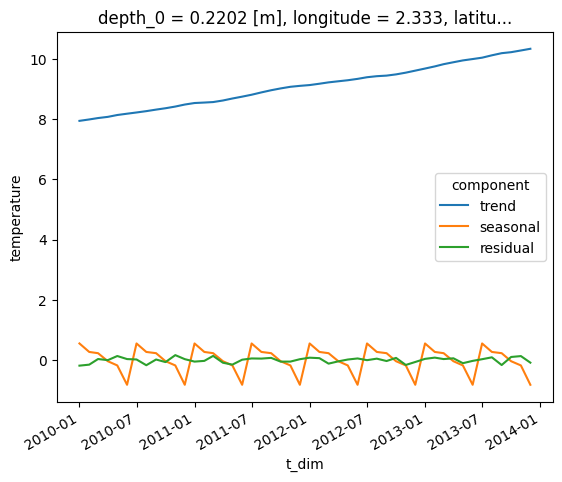
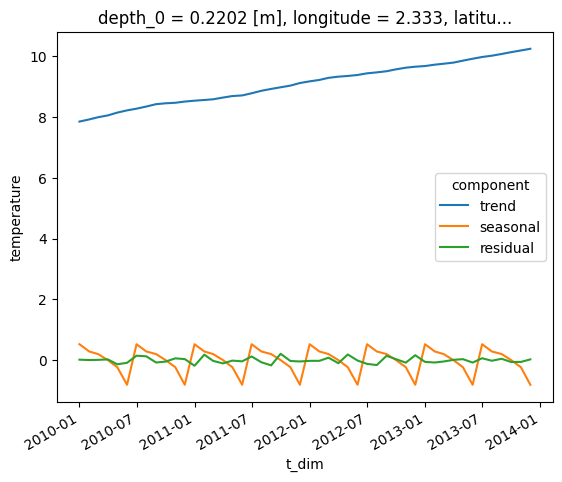
Updated General notebook pages from coast repo.

diff --git a/content/en/docs/Examples/Notebooks/General/seasonal_decomp_example.md b/content/en/docs/Examples/Notebooks/General/seasonal_decomp_example.md
@@ -86,7 +86,7 @@ temperature[0,0,:,:].plot()
 
 
 
-    <matplotlib.collections.QuadMesh at 0x7f54288200a0>
+    <matplotlib.collections.QuadMesh at 0x7f87ec9b7af0>
 
 
 
@@ -107,7 +107,7 @@ temperature[:,0,200,200].plot()
 
 
 
-    [<matplotlib.lines.Line2D at 0x7f5428659c40>]
+    [<matplotlib.lines.Line2D at 0x7f87ec7fa6d0>]
 
 
 
@@ -513,7 +513,7 @@ Dimensions without coordinates: z_dim, y_dim, x_dim
 Data variables:
     trend      (t_dim, z_dim, y_dim, x_dim) float64 nan nan nan ... nan nan nan
     seasonal   (t_dim, z_dim, y_dim, x_dim) float64 nan nan nan ... nan nan nan
-    residual   (t_dim, z_dim, y_dim, x_dim) float64 nan nan nan ... nan nan nan</pre><div class='xr-wrap' style='display:none'><div class='xr-header'><div class='xr-obj-type'>xarray.Dataset</div></div><ul class='xr-sections'><li class='xr-section-item'><input id='section-42e1726b-56fc-4b8e-be20-4bd1af0680b8' class='xr-section-summary-in' type='checkbox' disabled ><label for='section-42e1726b-56fc-4b8e-be20-4bd1af0680b8' class='xr-section-summary'  title='Expand/collapse section'>Dimensions:</label><div class='xr-section-inline-details'><ul class='xr-dim-list'><li><span class='xr-has-index'>t_dim</span>: 48</li><li><span>z_dim</span>: 2</li><li><span>y_dim</span>: 375</li><li><span>x_dim</span>: 297</li></ul></div><div class='xr-section-details'></div></li><li class='xr-section-item'><input id='section-195ff127-68da-49b0-ae87-d6668c5d421f' class='xr-section-summary-in' type='checkbox'  checked><label for='section-195ff127-68da-49b0-ae87-d6668c5d421f' class='xr-section-summary' >Coordinates: <span>(4)</span></label><div class='xr-section-inline-details'></div><div class='xr-section-details'><ul class='xr-var-list'><li class='xr-var-item'><div class='xr-var-name'><span class='xr-has-index'>t_dim</span></div><div class='xr-var-dims'>(t_dim)</div><div class='xr-var-dtype'>datetime64[ns]</div><div class='xr-var-preview xr-preview'>2010-01-01 ... 2013-12-01</div><input id='attrs-63c6d6a4-a8df-4694-a882-216d57622b40' class='xr-var-attrs-in' type='checkbox' disabled><label for='attrs-63c6d6a4-a8df-4694-a882-216d57622b40' title='Show/Hide attributes'><svg class='icon xr-icon-file-text2'><use xlink:href='#icon-file-text2'></use></svg></label><input id='data-4ab6fa35-8d45-4284-99fa-51c6e1e53652' class='xr-var-data-in' type='checkbox'><label for='data-4ab6fa35-8d45-4284-99fa-51c6e1e53652' title='Show/Hide data repr'><svg class='icon xr-icon-database'><use xlink:href='#icon-database'></use></svg></label><div class='xr-var-attrs'><dl class='xr-attrs'></dl></div><div class='xr-var-data'><pre>array([&#x27;2010-01-01T00:00:00.000000000&#x27;, &#x27;2010-02-01T00:00:00.000000000&#x27;,
+    residual   (t_dim, z_dim, y_dim, x_dim) float64 nan nan nan ... nan nan nan</pre><div class='xr-wrap' style='display:none'><div class='xr-header'><div class='xr-obj-type'>xarray.Dataset</div></div><ul class='xr-sections'><li class='xr-section-item'><input id='section-d42141ce-48af-4893-b364-5f6567613936' class='xr-section-summary-in' type='checkbox' disabled ><label for='section-d42141ce-48af-4893-b364-5f6567613936' class='xr-section-summary'  title='Expand/collapse section'>Dimensions:</label><div class='xr-section-inline-details'><ul class='xr-dim-list'><li><span class='xr-has-index'>t_dim</span>: 48</li><li><span>z_dim</span>: 2</li><li><span>y_dim</span>: 375</li><li><span>x_dim</span>: 297</li></ul></div><div class='xr-section-details'></div></li><li class='xr-section-item'><input id='section-e6585d1b-7724-4d4b-a495-5657a4b716bb' class='xr-section-summary-in' type='checkbox'  checked><label for='section-e6585d1b-7724-4d4b-a495-5657a4b716bb' class='xr-section-summary' >Coordinates: <span>(4)</span></label><div class='xr-section-inline-details'></div><div class='xr-section-details'><ul class='xr-var-list'><li class='xr-var-item'><div class='xr-var-name'><span class='xr-has-index'>t_dim</span></div><div class='xr-var-dims'>(t_dim)</div><div class='xr-var-dtype'>datetime64[ns]</div><div class='xr-var-preview xr-preview'>2010-01-01 ... 2013-12-01</div><input id='attrs-b4dcd564-58a8-42f1-81d1-2969cd179d9c' class='xr-var-attrs-in' type='checkbox' disabled><label for='attrs-b4dcd564-58a8-42f1-81d1-2969cd179d9c' title='Show/Hide attributes'><svg class='icon xr-icon-file-text2'><use xlink:href='#icon-file-text2'></use></svg></label><input id='data-311a7585-7bc5-4884-a68f-ded313acbca0' class='xr-var-data-in' type='checkbox'><label for='data-311a7585-7bc5-4884-a68f-ded313acbca0' title='Show/Hide data repr'><svg class='icon xr-icon-database'><use xlink:href='#icon-database'></use></svg></label><div class='xr-var-attrs'><dl class='xr-attrs'></dl></div><div class='xr-var-data'><pre>array([&#x27;2010-01-01T00:00:00.000000000&#x27;, &#x27;2010-02-01T00:00:00.000000000&#x27;,
        &#x27;2010-03-01T00:00:00.000000000&#x27;, &#x27;2010-04-01T00:00:00.000000000&#x27;,
        &#x27;2010-05-01T00:00:00.000000000&#x27;, &#x27;2010-06-01T00:00:00.000000000&#x27;,
        &#x27;2010-07-01T00:00:00.000000000&#x27;, &#x27;2010-08-01T00:00:00.000000000&#x27;,
@@ -537,7 +537,7 @@ Data variables:
        &#x27;2013-07-01T00:00:00.000000000&#x27;, &#x27;2013-08-01T00:00:00.000000000&#x27;,
        &#x27;2013-09-01T00:00:00.000000000&#x27;, &#x27;2013-10-01T00:00:00.000000000&#x27;,
        &#x27;2013-11-01T00:00:00.000000000&#x27;, &#x27;2013-12-01T00:00:00.000000000&#x27;],
-      dtype=&#x27;datetime64[ns]&#x27;)</pre></div></li><li class='xr-var-item'><div class='xr-var-name'><span>depth_0</span></div><div class='xr-var-dims'>(z_dim, y_dim, x_dim)</div><div class='xr-var-dtype'>float32</div><div class='xr-var-preview xr-preview'>0.5 0.5 0.5 0.5 ... 1.5 1.5 1.5 1.5</div><input id='attrs-6fabb1e6-5b57-43e1-aba7-dca92c9be95e' class='xr-var-attrs-in' type='checkbox' ><label for='attrs-6fabb1e6-5b57-43e1-aba7-dca92c9be95e' title='Show/Hide attributes'><svg class='icon xr-icon-file-text2'><use xlink:href='#icon-file-text2'></use></svg></label><input id='data-6bfe2712-4ecb-4cb5-b232-1c63897d9967' class='xr-var-data-in' type='checkbox'><label for='data-6bfe2712-4ecb-4cb5-b232-1c63897d9967' title='Show/Hide data repr'><svg class='icon xr-icon-database'><use xlink:href='#icon-database'></use></svg></label><div class='xr-var-attrs'><dl class='xr-attrs'><dt><span>units :</span></dt><dd>m</dd><dt><span>standard_name :</span></dt><dd>Depth at time zero on the t-grid</dd></dl></div><div class='xr-var-data'><pre>array([[[0.5       , 0.5       , 0.5       , ..., 0.5       ,
+      dtype=&#x27;datetime64[ns]&#x27;)</pre></div></li><li class='xr-var-item'><div class='xr-var-name'><span>depth_0</span></div><div class='xr-var-dims'>(z_dim, y_dim, x_dim)</div><div class='xr-var-dtype'>float32</div><div class='xr-var-preview xr-preview'>0.5 0.5 0.5 0.5 ... 1.5 1.5 1.5 1.5</div><input id='attrs-b49a0ec0-ab7a-4933-a63e-c009f26ebf74' class='xr-var-attrs-in' type='checkbox' ><label for='attrs-b49a0ec0-ab7a-4933-a63e-c009f26ebf74' title='Show/Hide attributes'><svg class='icon xr-icon-file-text2'><use xlink:href='#icon-file-text2'></use></svg></label><input id='data-532673e2-7186-4427-8175-4546692c87ad' class='xr-var-data-in' type='checkbox'><label for='data-532673e2-7186-4427-8175-4546692c87ad' title='Show/Hide data repr'><svg class='icon xr-icon-database'><use xlink:href='#icon-database'></use></svg></label><div class='xr-var-attrs'><dl class='xr-attrs'><dt><span>units :</span></dt><dd>m</dd><dt><span>standard_name :</span></dt><dd>Depth at time zero on the t-grid</dd></dl></div><div class='xr-var-data'><pre>array([[[0.5       , 0.5       , 0.5       , ..., 0.5       ,
          0.5       , 0.5       ],
         [0.5       , 0.4975586 , 0.4975586 , ..., 0.10009766,
          0.10009766, 0.5       ],
@@ -563,7 +563,7 @@ Data variables:
         [1.5       , 0.30029297, 0.30029297, ..., 0.30029297,
          0.30029297, 1.5       ],
         [1.5       , 1.5       , 1.5       , ..., 1.5       ,
-         1.5       , 1.5       ]]], dtype=float32)</pre></div></li><li class='xr-var-item'><div class='xr-var-name'><span>longitude</span></div><div class='xr-var-dims'>(y_dim, x_dim)</div><div class='xr-var-dtype'>float32</div><div class='xr-var-preview xr-preview'>-19.89 -19.78 -19.67 ... 12.89 13.0</div><input id='attrs-ce625aa5-f5ac-4e2d-ad32-ebca40a9c01e' class='xr-var-attrs-in' type='checkbox' disabled><label for='attrs-ce625aa5-f5ac-4e2d-ad32-ebca40a9c01e' title='Show/Hide attributes'><svg class='icon xr-icon-file-text2'><use xlink:href='#icon-file-text2'></use></svg></label><input id='data-0fb8d520-c977-4e80-ae85-2e611728a593' class='xr-var-data-in' type='checkbox'><label for='data-0fb8d520-c977-4e80-ae85-2e611728a593' title='Show/Hide data repr'><svg class='icon xr-icon-database'><use xlink:href='#icon-database'></use></svg></label><div class='xr-var-attrs'><dl class='xr-attrs'></dl></div><div class='xr-var-data'><pre>array([[-19.888672, -19.777344, -19.666992, ...,  12.777344,  12.888672,
+         1.5       , 1.5       ]]], dtype=float32)</pre></div></li><li class='xr-var-item'><div class='xr-var-name'><span>longitude</span></div><div class='xr-var-dims'>(y_dim, x_dim)</div><div class='xr-var-dtype'>float32</div><div class='xr-var-preview xr-preview'>-19.89 -19.78 -19.67 ... 12.89 13.0</div><input id='attrs-29179765-9406-4f76-9778-fa1de02a451e' class='xr-var-attrs-in' type='checkbox' disabled><label for='attrs-29179765-9406-4f76-9778-fa1de02a451e' title='Show/Hide attributes'><svg class='icon xr-icon-file-text2'><use xlink:href='#icon-file-text2'></use></svg></label><input id='data-bccb97a6-37e6-4661-9cdb-a46785899e40' class='xr-var-data-in' type='checkbox'><label for='data-bccb97a6-37e6-4661-9cdb-a46785899e40' title='Show/Hide data repr'><svg class='icon xr-icon-database'><use xlink:href='#icon-database'></use></svg></label><div class='xr-var-attrs'><dl class='xr-attrs'></dl></div><div class='xr-var-data'><pre>array([[-19.888672, -19.777344, -19.666992, ...,  12.777344,  12.888672,
          13.      ],
        [-19.888672, -19.777344, -19.666992, ...,  12.777344,  12.888672,
          13.      ],
@@ -575,7 +575,7 @@ Data variables:
        [-19.888672, -19.777344, -19.666992, ...,  12.777344,  12.888672,
          13.      ],
        [-19.888672, -19.777344, -19.666992, ...,  12.777344,  12.888672,
-         13.      ]], dtype=float32)</pre></div></li><li class='xr-var-item'><div class='xr-var-name'><span>latitude</span></div><div class='xr-var-dims'>(y_dim, x_dim)</div><div class='xr-var-dtype'>float32</div><div class='xr-var-preview xr-preview'>40.07 40.07 40.07 ... 65.0 65.0</div><input id='attrs-ae4bec34-c251-43ee-bbfa-1bbf3742ae2c' class='xr-var-attrs-in' type='checkbox' disabled><label for='attrs-ae4bec34-c251-43ee-bbfa-1bbf3742ae2c' title='Show/Hide attributes'><svg class='icon xr-icon-file-text2'><use xlink:href='#icon-file-text2'></use></svg></label><input id='data-8b595fee-8567-4b6c-bee9-df9ee6eaa27c' class='xr-var-data-in' type='checkbox'><label for='data-8b595fee-8567-4b6c-bee9-df9ee6eaa27c' title='Show/Hide data repr'><svg class='icon xr-icon-database'><use xlink:href='#icon-database'></use></svg></label><div class='xr-var-attrs'><dl class='xr-attrs'></dl></div><div class='xr-var-data'><pre>array([[40.066406, 40.066406, 40.066406, ..., 40.066406, 40.066406,
+         13.      ]], dtype=float32)</pre></div></li><li class='xr-var-item'><div class='xr-var-name'><span>latitude</span></div><div class='xr-var-dims'>(y_dim, x_dim)</div><div class='xr-var-dtype'>float32</div><div class='xr-var-preview xr-preview'>40.07 40.07 40.07 ... 65.0 65.0</div><input id='attrs-34e0a926-b6b6-413b-809e-6a13ca8f984d' class='xr-var-attrs-in' type='checkbox' disabled><label for='attrs-34e0a926-b6b6-413b-809e-6a13ca8f984d' title='Show/Hide attributes'><svg class='icon xr-icon-file-text2'><use xlink:href='#icon-file-text2'></use></svg></label><input id='data-d67e56d9-1117-456e-a018-335ab70f7880' class='xr-var-data-in' type='checkbox'><label for='data-d67e56d9-1117-456e-a018-335ab70f7880' title='Show/Hide data repr'><svg class='icon xr-icon-database'><use xlink:href='#icon-database'></use></svg></label><div class='xr-var-attrs'><dl class='xr-attrs'></dl></div><div class='xr-var-data'><pre>array([[40.066406, 40.066406, 40.066406, ..., 40.066406, 40.066406,
         40.066406],
        [40.13379 , 40.13379 , 40.13379 , ..., 40.13379 , 40.13379 ,
         40.13379 ],
@@ -587,11 +587,11 @@ Data variables:
        [64.93457 , 64.93457 , 64.93457 , ..., 64.93457 , 64.93457 ,
         64.93457 ],
        [65.00098 , 65.00098 , 65.00098 , ..., 65.00098 , 65.00098 ,
-        65.00098 ]], dtype=float32)</pre></div></li></ul></div></li><li class='xr-section-item'><input id='section-3655abc3-dd2e-4152-9675-b21c27f75b5d' class='xr-section-summary-in' type='checkbox'  checked><label for='section-3655abc3-dd2e-4152-9675-b21c27f75b5d' class='xr-section-summary' >Data variables: <span>(3)</span></label><div class='xr-section-inline-details'></div><div class='xr-section-details'><ul class='xr-var-list'><li class='xr-var-item'><div class='xr-var-name'><span>trend</span></div><div class='xr-var-dims'>(t_dim, z_dim, y_dim, x_dim)</div><div class='xr-var-dtype'>float64</div><div class='xr-var-preview xr-preview'>nan nan nan nan ... nan nan nan nan</div><input id='attrs-7d68115c-9791-43be-9ff7-39b429ada3ff' class='xr-var-attrs-in' type='checkbox' disabled><label for='attrs-7d68115c-9791-43be-9ff7-39b429ada3ff' title='Show/Hide attributes'><svg class='icon xr-icon-file-text2'><use xlink:href='#icon-file-text2'></use></svg></label><input id='data-0d86bc67-b482-41f9-80b9-1486f8b42e5b' class='xr-var-data-in' type='checkbox'><label for='data-0d86bc67-b482-41f9-80b9-1486f8b42e5b' title='Show/Hide data repr'><svg class='icon xr-icon-database'><use xlink:href='#icon-database'></use></svg></label><div class='xr-var-attrs'><dl class='xr-attrs'></dl></div><div class='xr-var-data'><pre>array([[[[        nan,         nan,         nan, ...,         nan,
+        65.00098 ]], dtype=float32)</pre></div></li></ul></div></li><li class='xr-section-item'><input id='section-464e8245-1a8b-4424-8d2a-ac0cfa53e012' class='xr-section-summary-in' type='checkbox'  checked><label for='section-464e8245-1a8b-4424-8d2a-ac0cfa53e012' class='xr-section-summary' >Data variables: <span>(3)</span></label><div class='xr-section-inline-details'></div><div class='xr-section-details'><ul class='xr-var-list'><li class='xr-var-item'><div class='xr-var-name'><span>trend</span></div><div class='xr-var-dims'>(t_dim, z_dim, y_dim, x_dim)</div><div class='xr-var-dtype'>float64</div><div class='xr-var-preview xr-preview'>nan nan nan nan ... nan nan nan nan</div><input id='attrs-c6f8db08-c1ec-454e-9e55-5a8c2129a865' class='xr-var-attrs-in' type='checkbox' disabled><label for='attrs-c6f8db08-c1ec-454e-9e55-5a8c2129a865' title='Show/Hide attributes'><svg class='icon xr-icon-file-text2'><use xlink:href='#icon-file-text2'></use></svg></label><input id='data-5eb594c5-5c9a-4f16-b055-70958bb9169e' class='xr-var-data-in' type='checkbox'><label for='data-5eb594c5-5c9a-4f16-b055-70958bb9169e' title='Show/Hide data repr'><svg class='icon xr-icon-database'><use xlink:href='#icon-database'></use></svg></label><div class='xr-var-attrs'><dl class='xr-attrs'></dl></div><div class='xr-var-data'><pre>array([[[[        nan,         nan,         nan, ...,         nan,
                   nan,         nan],
-         [        nan, 15.35180752, 15.34855231, ...,         nan,
+         [        nan, 15.26052062, 15.25726541, ...,         nan,
                   nan,         nan],
-         [        nan, 15.34073981, 15.5085458 , ...,         nan,
+         [        nan, 15.24945291, 15.4172589 , ...,         nan,
                   nan,         nan],
          ...,
          [        nan,         nan,         nan, ...,         nan,
@@ -603,9 +603,9 @@ Data variables:
 
         [[        nan,         nan,         nan, ...,         nan,
                   nan,         nan],
-         [        nan, 15.35083095, 15.34773851, ...,         nan,
+         [        nan, 15.25954405, 15.25645161, ...,         nan,
                   nan,         nan],
-         [        nan, 15.33960049, 15.51245205, ...,         nan,
+         [        nan, 15.24831359, 15.42116515, ...,         nan,
                   nan,         nan],
 ...
          [        nan,         nan,         nan, ...,         nan,
@@ -617,9 +617,9 @@ Data variables:
 
         [[        nan,         nan,         nan, ...,         nan,
                   nan,         nan],
-         [        nan, 17.74338891, 17.74029646, ...,         nan,
+         [        nan, 17.65310919, 17.65001674, ...,         nan,
                   nan,         nan],
-         [        nan, 17.73215844, 17.90501001, ...,         nan,
+         [        nan, 17.64187872, 17.81473028, ...,         nan,
                   nan,         nan],
          ...,
          [        nan,         nan,         nan, ...,         nan,
@@ -627,51 +627,11 @@ Data variables:
          [        nan,         nan,         nan, ...,         nan,
                   nan,         nan],
          [        nan,         nan,         nan, ...,         nan,
-                  nan,         nan]]]])</pre></div></li><li class='xr-var-item'><div class='xr-var-name'><span>seasonal</span></div><div class='xr-var-dims'>(t_dim, z_dim, y_dim, x_dim)</div><div class='xr-var-dtype'>float64</div><div class='xr-var-preview xr-preview'>nan nan nan nan ... nan nan nan nan</div><input id='attrs-e7c09f44-3a04-4f0c-9e8d-e0b6bbd134ca' class='xr-var-attrs-in' type='checkbox' disabled><label for='attrs-e7c09f44-3a04-4f0c-9e8d-e0b6bbd134ca' title='Show/Hide attributes'><svg class='icon xr-icon-file-text2'><use xlink:href='#icon-file-text2'></use></svg></label><input id='data-68bc32ce-9aa3-4314-9f05-e10864eeaca7' class='xr-var-data-in' type='checkbox'><label for='data-68bc32ce-9aa3-4314-9f05-e10864eeaca7' title='Show/Hide data repr'><svg class='icon xr-icon-database'><use xlink:href='#icon-database'></use></svg></label><div class='xr-var-attrs'><dl class='xr-attrs'></dl></div><div class='xr-var-data'><pre>array([[[[            nan,             nan,             nan, ...,
-                      nan,             nan,             nan],
-         [            nan,  8.11652713e-02, -2.49358288e-03, ...,
-                      nan,             nan,             nan],
-         [            nan,  1.06881417e-01,  3.36536365e-01, ...,
-                      nan,             nan,             nan],
-         ...,
-         [            nan,             nan,             nan, ...,
-                      nan,             nan,             nan],
-         [            nan,             nan,             nan, ...,
-                      nan,             nan,             nan],
-         [            nan,             nan,             nan, ...,
-                      nan,             nan,             nan]],
-
-        [[            nan,             nan,             nan, ...,
-                      nan,             nan,             nan],
-         [            nan,  7.04230838e-02, -1.33985308e-02, ...,
-                      nan,             nan,             nan],
-         [            nan,  9.63019900e-02,  3.32630115e-01, ...,
-                      nan,             nan,             nan],
-...
-         [            nan,             nan,             nan, ...,
-                      nan,             nan,             nan],
-         [            nan,             nan,             nan, ...,
-                      nan,             nan,             nan],
-         [            nan,             nan,             nan, ...,
-                      nan,             nan,             nan]],
-
-        [[            nan,             nan,             nan, ...,
-                      nan,             nan,             nan],
-         [            nan, -3.32605874e-01, -3.15841551e-01, ...,
-                      nan,             nan,             nan],
-         [            nan, -3.42859780e-01, -6.91492593e-01, ...,
-                      nan,             nan,             nan],
-         ...,
-         [            nan,             nan,             nan, ...,
-                      nan,             nan,             nan],
-         [            nan,             nan,             nan, ...,
-                      nan,             nan,             nan],
-         [            nan,             nan,             nan, ...,
-                      nan,             nan,             nan]]]])</pre></div></li><li class='xr-var-item'><div class='xr-var-name'><span>residual</span></div><div class='xr-var-dims'>(t_dim, z_dim, y_dim, x_dim)</div><div class='xr-var-dtype'>float64</div><div class='xr-var-preview xr-preview'>nan nan nan nan ... nan nan nan nan</div><input id='attrs-247f08f0-63ab-4b15-a08b-81cb72b46ec3' class='xr-var-attrs-in' type='checkbox' disabled><label for='attrs-247f08f0-63ab-4b15-a08b-81cb72b46ec3' title='Show/Hide attributes'><svg class='icon xr-icon-file-text2'><use xlink:href='#icon-file-text2'></use></svg></label><input id='data-e35cc6c4-7a1d-4d0b-8605-af9e29e667c5' class='xr-var-data-in' type='checkbox'><label for='data-e35cc6c4-7a1d-4d0b-8605-af9e29e667c5' title='Show/Hide data repr'><svg class='icon xr-icon-database'><use xlink:href='#icon-database'></use></svg></label><div class='xr-var-attrs'><dl class='xr-attrs'></dl></div><div class='xr-var-data'><pre>array([[[[        nan,         nan,         nan, ...,         nan,
+                  nan,         nan]]]])</pre></div></li><li class='xr-var-item'><div class='xr-var-name'><span>seasonal</span></div><div class='xr-var-dims'>(t_dim, z_dim, y_dim, x_dim)</div><div class='xr-var-dtype'>float64</div><div class='xr-var-preview xr-preview'>nan nan nan nan ... nan nan nan nan</div><input id='attrs-73561aa1-b332-4009-b5d2-3774c6647dda' class='xr-var-attrs-in' type='checkbox' disabled><label for='attrs-73561aa1-b332-4009-b5d2-3774c6647dda' title='Show/Hide attributes'><svg class='icon xr-icon-file-text2'><use xlink:href='#icon-file-text2'></use></svg></label><input id='data-e00157c6-d26b-4a42-bb48-baae50133bb4' class='xr-var-data-in' type='checkbox'><label for='data-e00157c6-d26b-4a42-bb48-baae50133bb4' title='Show/Hide data repr'><svg class='icon xr-icon-database'><use xlink:href='#icon-database'></use></svg></label><div class='xr-var-attrs'><dl class='xr-attrs'></dl></div><div class='xr-var-data'><pre>array([[[[        nan,         nan,         nan, ...,         nan,
                   nan,         nan],
-         [        nan, -0.18733054, -0.18733054, ...,         nan,
+         [        nan,  0.0604959 , -0.02316296, ...,         nan,
                   nan,         nan],
-         [        nan, -0.18733054, -0.18733054, ...,         nan,
+         [        nan,  0.08621204,  0.31586699, ...,         nan,
                   nan,         nan],
          ...,
          [        nan,         nan,         nan, ...,         nan,
@@ -683,9 +643,9 @@ Data variables:
 
         [[        nan,         nan,         nan, ...,         nan,
                   nan,         nan],
-         [        nan, -0.18733054, -0.18733054, ...,         nan,
+         [        nan,  0.04975371, -0.0340679 , ...,         nan,
                   nan,         nan],
-         [        nan, -0.18733054, -0.18733054, ...,         nan,
+         [        nan,  0.07563262,  0.31196074, ...,         nan,
                   nan,         nan],
 ...
          [        nan,         nan,         nan, ...,         nan,
@@ -697,9 +657,9 @@ Data variables:
 
         [[        nan,         nan,         nan, ...,         nan,
                   nan,         nan],
-         [        nan, -0.08778896, -0.08778896, ...,         nan,
+         [        nan, -0.31473006, -0.29796574, ...,         nan,
                   nan,         nan],
-         [        nan, -0.08778896, -0.08778896, ...,         nan,
+         [        nan, -0.32498397, -0.67361678, ...,         nan,
                   nan,         nan],
          ...,
          [        nan,         nan,         nan, ...,         nan,
@@ -707,7 +667,47 @@ Data variables:
          [        nan,         nan,         nan, ...,         nan,
                   nan,         nan],
          [        nan,         nan,         nan, ...,         nan,
-                  nan,         nan]]]])</pre></div></li></ul></div></li><li class='xr-section-item'><input id='section-72641392-be48-49ad-a6ab-4740b95ff5b5' class='xr-section-summary-in' type='checkbox' disabled ><label for='section-72641392-be48-49ad-a6ab-4740b95ff5b5' class='xr-section-summary'  title='Expand/collapse section'>Attributes: <span>(0)</span></label><div class='xr-section-inline-details'></div><div class='xr-section-details'><dl class='xr-attrs'></dl></div></li></ul></div></div>
+                  nan,         nan]]]])</pre></div></li><li class='xr-var-item'><div class='xr-var-name'><span>residual</span></div><div class='xr-var-dims'>(t_dim, z_dim, y_dim, x_dim)</div><div class='xr-var-dtype'>float64</div><div class='xr-var-preview xr-preview'>nan nan nan nan ... nan nan nan nan</div><input id='attrs-b2a1ec0b-4570-4159-a3dc-849e8e504968' class='xr-var-attrs-in' type='checkbox' disabled><label for='attrs-b2a1ec0b-4570-4159-a3dc-849e8e504968' title='Show/Hide attributes'><svg class='icon xr-icon-file-text2'><use xlink:href='#icon-file-text2'></use></svg></label><input id='data-a6f6cbed-61aa-409b-82ad-252d6c2b626f' class='xr-var-data-in' type='checkbox'><label for='data-a6f6cbed-61aa-409b-82ad-252d6c2b626f' title='Show/Hide data repr'><svg class='icon xr-icon-database'><use xlink:href='#icon-database'></use></svg></label><div class='xr-var-attrs'><dl class='xr-attrs'></dl></div><div class='xr-var-data'><pre>array([[[[        nan,         nan,         nan, ...,         nan,
+                  nan,         nan],
+         [        nan,  0.02138179,  0.02138179, ...,         nan,
+                  nan,         nan],
+         [        nan,  0.02138179,  0.02138179, ...,         nan,
+                  nan,         nan],
+         ...,
+         [        nan,         nan,         nan, ...,         nan,
+                  nan,         nan],
+         [        nan,         nan,         nan, ...,         nan,
+                  nan,         nan],
+         [        nan,         nan,         nan, ...,         nan,
+                  nan,         nan]],
+
+        [[        nan,         nan,         nan, ...,         nan,
+                  nan,         nan],
+         [        nan,  0.02138179,  0.02138179, ...,         nan,
+                  nan,         nan],
+         [        nan,  0.02138179,  0.02138179, ...,         nan,
+                  nan,         nan],
+...
+         [        nan,         nan,         nan, ...,         nan,
+                  nan,         nan],
+         [        nan,         nan,         nan, ...,         nan,
+                  nan,         nan],
+         [        nan,         nan,         nan, ...,         nan,
+                  nan,         nan]],
+
+        [[        nan,         nan,         nan, ...,         nan,
+                  nan,         nan],
+         [        nan,  0.0307246 ,  0.0307246 , ...,         nan,
+                  nan,         nan],
+         [        nan,  0.0307246 ,  0.0307246 , ...,         nan,
+                  nan,         nan],
+         ...,
+         [        nan,         nan,         nan, ...,         nan,
+                  nan,         nan],
+         [        nan,         nan,         nan, ...,         nan,
+                  nan,         nan],
+         [        nan,         nan,         nan, ...,         nan,
+                  nan,         nan]]]])</pre></div></li></ul></div></li><li class='xr-section-item'><input id='section-25f9f699-c23c-4dc7-9777-6cd7aa844e65' class='xr-section-summary-in' type='checkbox' disabled ><label for='section-25f9f699-c23c-4dc7-9777-6cd7aa844e65' class='xr-section-summary'  title='Expand/collapse section'>Attributes: <span>(0)</span></label><div class='xr-section-inline-details'></div><div class='xr-section-details'><dl class='xr-attrs'></dl></div></li></ul></div></div>
 
 
 
@@ -726,9 +726,9 @@ temp_decomp[:,:,0,200,200].plot(hue="component")
 
 
 
-    [<matplotlib.lines.Line2D at 0x7f542850ae50>,
-     <matplotlib.lines.Line2D at 0x7f54285abbb0>,
-     <matplotlib.lines.Line2D at 0x7f54284fcc10>]
+    [<matplotlib.lines.Line2D at 0x7f87ec74f640>,
+     <matplotlib.lines.Line2D at 0x7f87ec6b1be0>,
+     <matplotlib.lines.Line2D at 0x7f87ec6b1b50>]
 
 
 

diff --git a/content/en/docs/Examples/Notebooks/General/eof_tutorial.md b/content/en/docs/Examples/Notebooks/General/eof_tutorial.md
@@ -70,7 +70,7 @@ eof_data.EOF.sel(mode=[1,2,3,4]).plot.pcolormesh(col='mode',col_wrap=2,x='longit
 
 
 
-    <xarray.plot.facetgrid.FacetGrid at 0x7f1f809d5790>
+    <xarray.plot.facetgrid.FacetGrid at 0x7ff99993d6d0>
 
 
 
@@ -88,7 +88,7 @@ eof_data.temporal_proj.sel(mode=[1,2,3,4]).plot(col='mode',col_wrap=2,x='time')
 
 
 
-    <xarray.plot.facetgrid.FacetGrid at 0x7f1f37fb7eb0>
+    <xarray.plot.facetgrid.FacetGrid at 0x7ff9983d8400>
 
 
 
